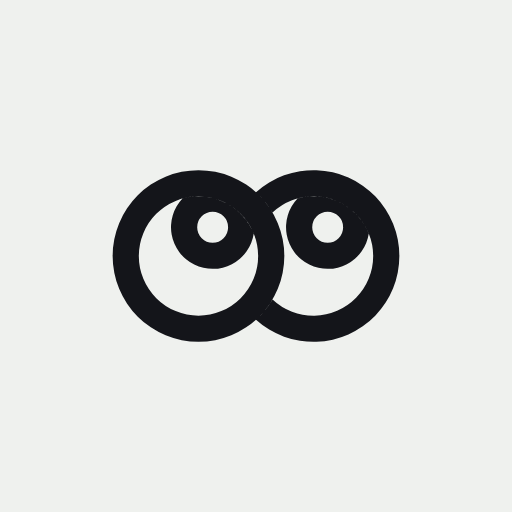
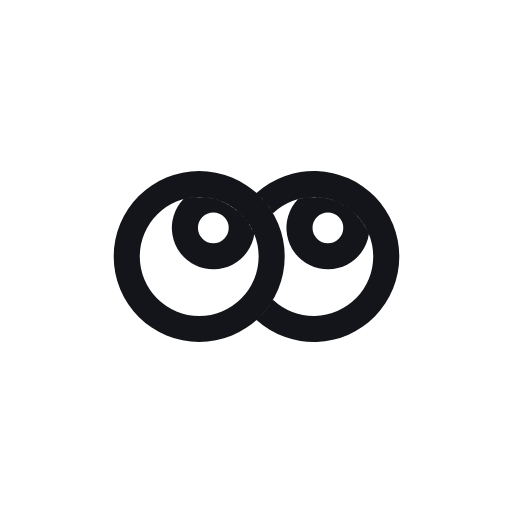
Put the eyes mark on white, and draft the ChatGPT app submission
## The icon

`assets/brand/icon-512.png` was the eyes mark on `#EFF1EE` — an off-white that
reads as grey against a white surface. It is now `#FFFFFF`.

Re-rendered from `assets/brand/nooticr-icon.svg` at the scale that reproduces
the old framing (mark 284x170 centred at 256,256, against 285x171 at 255.5
before — within a pixel) rather than swapping the background colour in the
existing PNG. A colour swap would have left every antialiased edge pixel still
blended toward `#EFF1EE`, which shows as a faint halo at the size an app
listing renders it.

The SVG needed no change: it carries no background and fills with
`currentColor`, so it already takes whatever ground a host gives it. That is
the correct behaviour and swapping it for a hardcoded white would be a
regression.

One thing to know before merging: `icon-512.png` is the icon for the Claude
plugin (`.claude-plugin/plugin.json`, `marketplace.json`) and the MCP registry
(`server.json`) as well, since all three point at the same raw.githubusercontent
URL. So this changes the mark everywhere, not only in the ChatGPT listing. That
matches "modify our logo icon" as asked; if a white ground is wanted only for
the submission, this should be a second file instead.

## The submission

`docs/chatgpt-app-submission.md` and `chatgpt-app-submission.json` carry the
same values — the doc names the file each one came from so any line can be
checked rather than trusted.
[…]

diff --git a/docs/chatgpt-app-submission.md b/docs/chatgpt-app-submission.md
@@ -1,0 +1,175 @@
+# ChatGPT app submission — sourced answers
+
+Everything here is read out of this repository, with the file it came from, so a
+reviewer can check any line rather than trust it. The companion
+`chatgpt-app-submission.json` at the repo root carries the same values in the
+shape the submission form asks to upload.
+
+> **This was assembled by hand, not by the OpenAI Developers plugin's
+> `$chatgpt-app-submission` skill.** That skill was not available in the
+> environment this was written in, so **the field names below are a best guess
+> at the form's schema while the values are accurate to the repo.** Before
+> uploading, run the real skill if you can, or reconcile the key names against
+> the form. Accuracy of the submission is the submitter's responsibility and
+> nothing here changes that.
+
+## Identity
+
+| Field | Value | Source |
+|---|---|---|
+| Name | Nooticr | `server.json` `title` |
+| Slug / id | `com.nooticr/mcp` | `server.json` `name` |
+| npm package | `@nooticr/mcp` | `package.json` |
+| Version | 1.26.23 | `package.json`, `server.json`, `MCP_SERVER_VERSION` (CI gates all three) |
+| Short description | Social intelligence for 10 networks: read posts and trends, monitor brand mentions, then create. | `server.json` `description` |
+| Website | https://mcp.nooticr.com | `server.json` `websiteUrl` |
+| Repository | https://github.com/Nooticr/nooticr-mcp | `server.json` `repository` |
+| License | MIT | `package.json`, `LICENSE` |
+| Icon | `assets/brand/icon-512.png` — 512×512 PNG, the eyes mark on `#FFFFFF` | this branch |
+
+## What it does
+
+Long description, drawn from `README.md`'s opening rather than written fresh:
+
+> Gives an AI assistant three things: it can **read** real social posts across
+> ten networks (TikTok, Instagram, YouTube, X, Reddit, LinkedIn, Douyin,
+> Xiaohongshu, Weibo, Bilibili), **understand** them — transcript, video
+> frames, comments, the numbers — and **make** something from what it learned:
+> hooks, variants to film, a scored draft, a repurposed thread.
+>
+> The understanding is the user's own model's, not ours. Every tool fetches
+> material and hands it over with an account of what to do with it; none of
+> them ask a model of ours for an opinion first. You pay for the fetch and
+> nothing else.
+>
+> It also **monitors a name**: `search_mentions` sweeps nine of those networks
+> for every comment that says a brand, inside a date window, and
+> `search_spoken_mentions` reads the words actually said out loud in videos for
+> the mentions that were never typed anywhere.
+
+Suggested categories: productivity / marketing / research. Not verified against
+the form's own list.
+
+## Technical surface
+
+| Field | Value | Source |
+|---|---|---|
+| Transport | Streamable HTTP | `server.json` `remotes` |
+| MCP endpoint | `https://mcp.nooticr.com/mcp` | `server.json` |
+| Also ships | stdio via `npx -y @nooticr/mcp` | `package.json` `bin` |
+| Protocol version | 2025-11-25 | `npm run conformance:mcpjam` output |
+| Tools | **64** | `tools/list` on the built server |
+| Tools with a ChatGPT widget | **56** | `_meta["openai/outputTemplate"]`, verified by `npm run contract:host` |
+| UI resources | 114 (56 Claude + 56 ChatGPT twins + 2 legacy view aliases) | `npm run conformance:mcpjam` |
+| Widget mime | `text/html+skybridge` at `.html`-suffixed sibling URIs | `src/shared/tools.ts` `APPS_SDK_MIME_TYPE` |
+
+### The dual-mime arrangement, stated up front
+
+Every view is served twice: `text/html;profile=mcp-app` for hosts that speak
+the MCP Apps spec, and `text/html+skybridge` at a `.html` sibling URI for
+ChatGPT, whose Apps SDK looks for `_meta["openai/outputTemplate"]` and expects
+that mime. Handing ChatGPT the profile mime renders the HTML but never attaches
+the bridge — the widget sits on its idle placeholder with a clean console.
+
+This is deliberate and is pinned by `tests/ui-resource.test.ts` and by
+`scripts/mcpjam-apps-conformance.sh`, which excludes exactly two conformance
+checks (`ui-listed-resources-valid`, `ui-resource-contents-valid`) because both
+require the profile mime everywhere. Score on the remaining checks: **100/100,
+5/5**. Worth mentioning in the submission so the deviation is not read as a
+defect.
+
+## Authentication
+
+OAuth 2.0 Authorization Code + PKCE (S256), public client, per MCP 2025-03-26.
+From `README.md` "How authentication works" and `src/oauth.ts`:
+
+- `GET /.well-known/oauth-authorization-server` — metadata
+- `GET /authorize` — redirect URIs restricted to loopback or `https://`
+- `GET /oauth/callback` — exchanges nooticr's completion code for JWTs
+- `POST /token` — verifies PKCE, issues an opaque Bearer bound to the session, 1 hour
+- every MCP RPC validates the Bearer against the session map
+
+No credential passes through a tool argument or the model's context.
+Authorization codes and PKCE challenges are one-time use and short-lived
+(`README.md` "Security notes").
+
+## Data handling
+
+Answers a review will ask for, all verifiable in the source:
+
+- **What leaves the user's session:** the tool arguments (a post URL, a handle,
+  a search term) go to `api.nooticr.com`, which fetches from the upstream data
+  provider. No conversation content is sent.
+- **What is stored:** the creator watchlist and scheduled brand watches, per
+  workspace (`migrations/0048_creator_watchlist.sql`,
+  `0045_brand_watches.sql` in nooticr-server). A scheduled watch stores an
+  opaque content fingerprint per already-mailed mention, not the mention text.
+- **Third-party content is returned to the model:** post captions, comments,
+  transcripts and search results come from the public internet, not from
+  nooticr. Every tool that returns such text frames it as data to reason over
+  rather than as instructions — the shared `ownIt` line in
+  `src/shared/evidence.ts` and `reviewGuidance()` in
+  `src/shared/comment-review.ts`. `prepare_handoff` additionally redacts
+  contact details and defangs `@handles` and `#numbers` before the text reaches
+  a tracker. This is a prompt-injection surface handled deliberately; say so
+  rather than leaving a reviewer to find it.
+- **Billing:** nooticr credits, 20 free on signup, Stripe Checkout for top-ups.
+  Tools price themselves in their own descriptions; the six whose price is set
+  by an argument ask for confirmation over MCP `elicitation` above 6 credits.
+
+### Tools that change state (16 of 64)
+
+`buy_nooticr_credits`, `watch_creator`, `unwatch_creator`,
+`catch_up_watchlist`, `track_competitor`, `create_brand_watch`,
+`stop_brand_watch`, `create_product`, `update_product`, `analyze_product`,
+`review_post`, `draft_post`, `growth_brief`, `generate_content_plan`,
+`generate_captions`, `connect_social_account`.
+
+Source: `NOT_READ_ONLY` in `tests/server-surface.test.ts`, which fails if the
+list and the tools' `readOnlyHint` annotations disagree. The other 48 declare
+`readOnlyHint: true`.
+
+**Nothing in this server posts to a social network.** No nooticr connection
+carries comment-write permission, so `answer_my_audience` and
+`show_audience_replies` draft replies for a person to paste in themselves. See
+issue #29 for the one place that claim is in tension with
+`list_social_connections`' reported scopes.
+
+## What only you can supply
+
+These are not in the repo and must not be invented:
+
+- [ ] **Privacy policy URL** — nothing in the repo references one. Almost
+      certainly a hard requirement.
+- [ ] **Terms of service URL** — same.
+- [ ] **Support contact** (email or URL) — no `support@` anywhere in the repo.
+- [ ] **Publisher / legal entity name** as it should appear.
+- [ ] **Category** from the form's own list.
+- [ ] Whether the submission should point at the hosted endpoint only, or also
+      declare the npm/stdio distribution.
+
+While you are there: `package.json` has no `homepage`, `repository` or `author`
+field. `server.json` carries all three, so nothing is broken, but a reviewer
+looking at the npm page will find them missing.
+
+## Readiness — one technical item worth fixing first
+
+**Issue #26 is directly relevant to this submission.** `npm run contract:host`
+passes with 0 errors and **1,291 warnings**, of which 1,286 are:
+
+> `type` is an array (`["string","number","boolean"]`). The array form is legal
+> JSON Schema, but several MCP clients read `type` as a single string and
+> **either reject the tool or drop the constraint**.
+
+ChatGPT is precisely the third-party strict client that warning is about. The
+failure mode is invisible from here — a host that rejects a tool makes it
+disappear from `tools/list` with no error this repo would ever see. The fix is
+in a handful of helpers in `src/shared/output-schemas.ts`, not in 1,286 places.
+
+I would land #26 before submitting rather than after a rejection that gives no
+diagnostic.
+
+Everything else is green as of this branch: tsc clean on root and
+`cloudflare/`, 765 unit tests, `contract:host` 0 errors,
+`contract:manifest` intact, mcpjam conformance 100/100, mutation guard 6/6,
+`playwright` 153/153.
